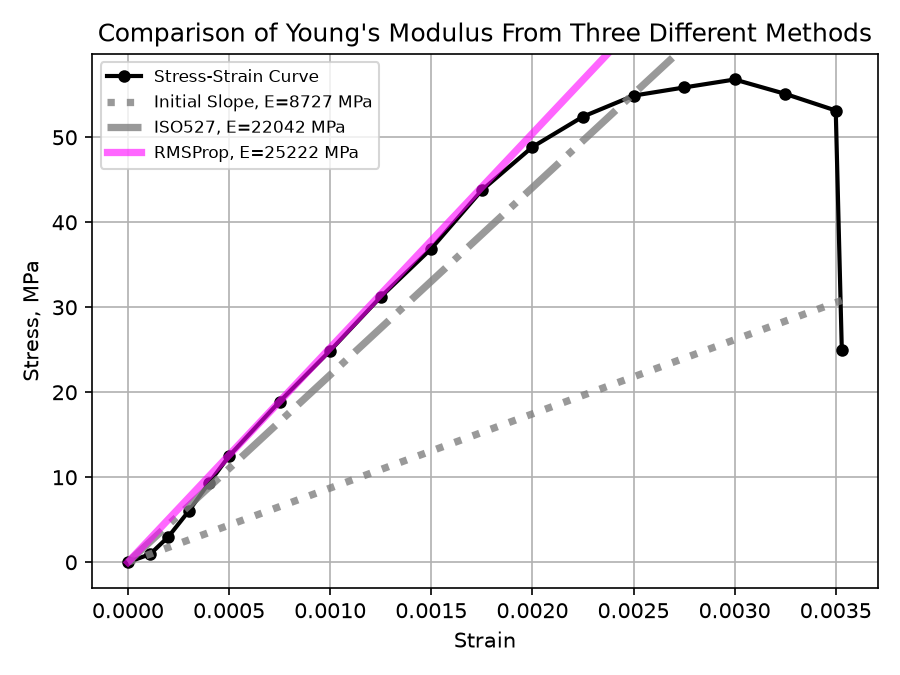
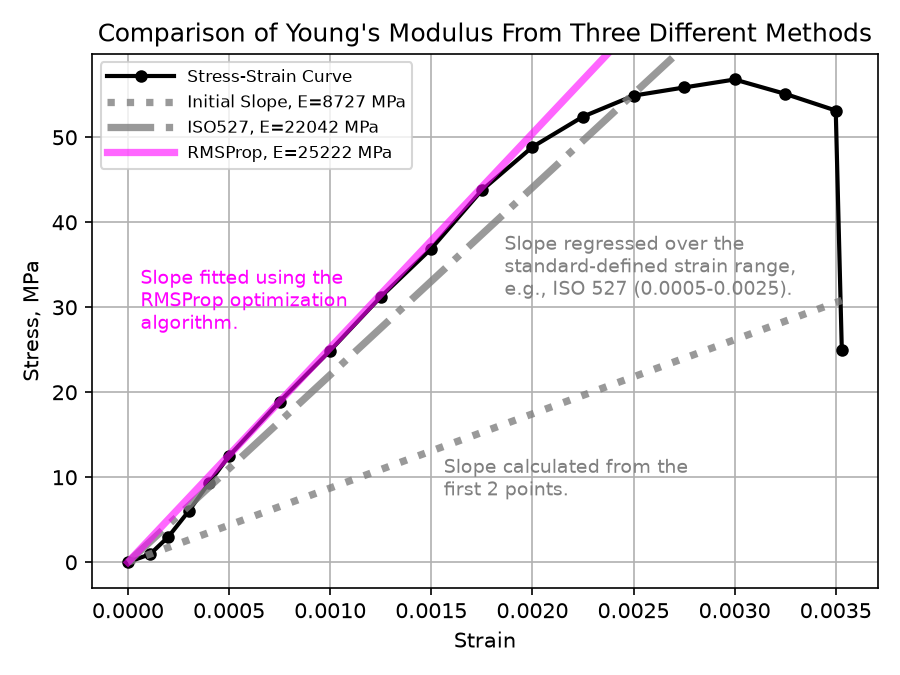
feat: enhance modulus fit comparison script with annotations for secant lines

diff --git a/examples/modulus_fit_comparison.py b/examples/modulus_fit_comparison.py
@@ -5,6 +5,8 @@ Renders a single overlay chart of all three secant lines against the raw
 curve.
 """
 
+import textwrap
+
 import matplotlib.pyplot as plt
 import numpy as np
 
@@ -122,7 +124,26 @@ ax.plot(
     alpha=0.6,
     label=f"RMSProp, E={m_rmsprop:.0f} MPa",
 )
-ax.legend(fontsize=8, loc="best")
+ax.legend(fontsize=8, loc="best", handlelength=4)
+
+
+def annotate_line(x: float, y: float, color: str, text: str, wrap: int = 25) -> None:
+    """Labels a secant line directly on the plot, near the given x."""
+    ax.annotate(
+        textwrap.fill(text, width=wrap),
+        xy=(x, y),
+        xytext=(6, 6),
+        textcoords="offset points",
+        color=color,
+        fontsize=9,
+        fontweight="normal",
+    )
+
+
+annotate_line(0.0015, 6.4, "gray", "Slope calculated from the first 2 points.")
+annotate_line(0.0018, 30.0, "gray", "Slope regressed over the standard-defined strain range, e.g., ISO 527 (0.0005-0.0025).", wrap=32)
+annotate_line(0.0000, 26.0, "fuchsia", "Slope fitted using the RMSProp optimization algorithm.")
+
 fig.savefig("examples/modulus_fit_comparison.png", dpi=150)
 
 
